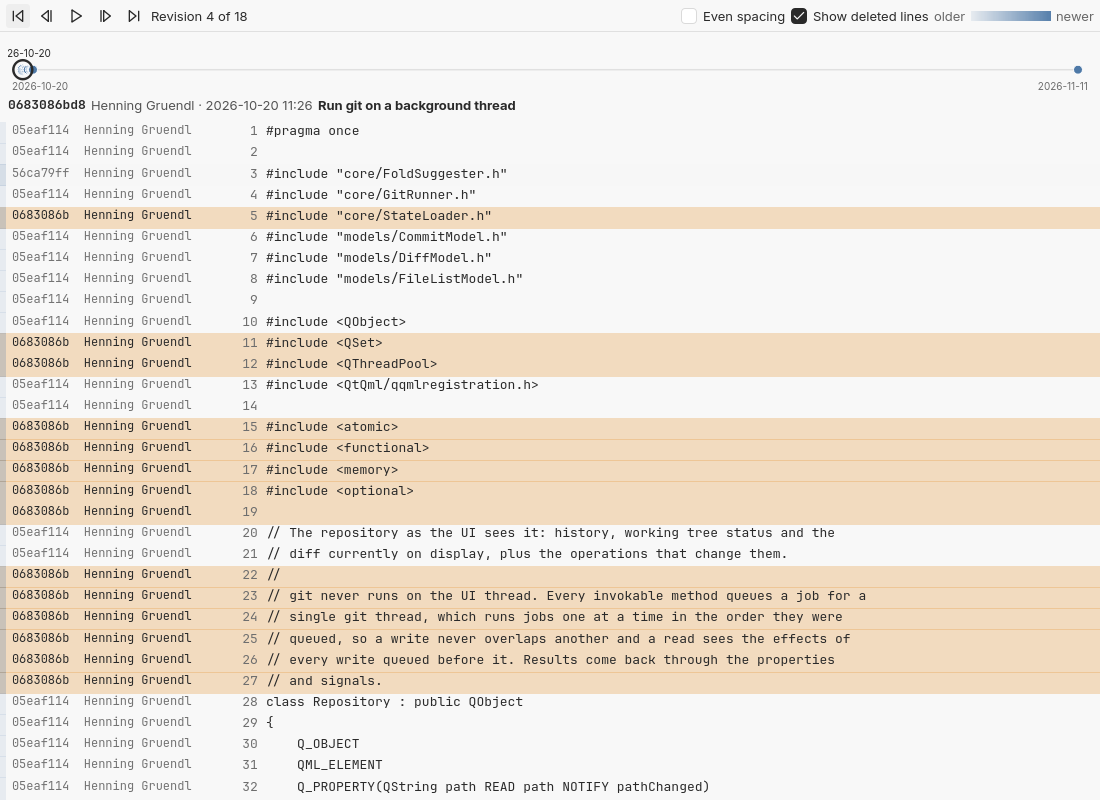
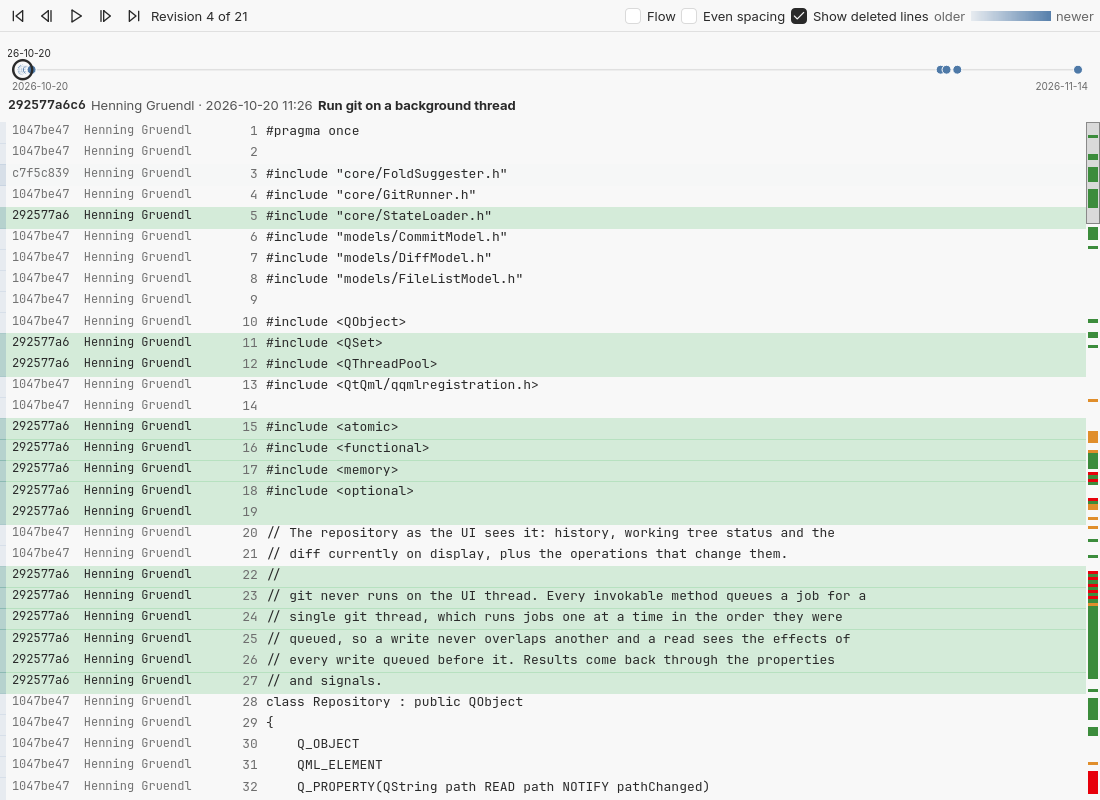
Show the flow as History shows it now
The flow screenshot still had bands colored by the revision on their
left and bare node bars, and the time-lapse one predated the flow. Take
both again: a file's history below the graph, with the flow's bars and
the lines of the revision picked, and the time-lapse in a window of its
own. The flow shot is 1000 pixels high, to leave room for the lines.

diff --git a/pages/index.html b/pages/index.html
@@ -171,8 +171,8 @@
     revision underneath, with what it added, edited and removed in the same colors;
     the wheel scrolls through the history and Ctrl+wheel zooms.
     <a href="https://github.com/iam-peter/igitt#time-lapse-view">More in the README</a>.</p>
-  <img class="shot" src="flow.png" width="1400" height="900" loading="lazy"
-       alt="The flow of TimelapseWindow.qml through eight commits, above the newest one's lines: added in green, edited in orange, deleted in red">
+  <img class="shot" src="flow.png" width="1400" height="1000" loading="lazy"
+       alt="The History mode with the history of TimelapseWindow.qml below the graph: its flow through eight commits, the third one picked, above that revision's lines, added in green and deleted in red">
 
   <div class="detail">
     <p>Beside the scroll bar, a strip shows the whole file at once with the changes of

diff --git a/README.md b/README.md
@@ -147,9 +147,9 @@ to show that revision; on the current one, a marker shows the lines in
 sight in the code, and clicking or dragging along it scrolls there. The
 wheel scrolls through the revisions, Ctrl+wheel zooms.
 
-![The flow of TimelapseWindow.qml through eight commits, above the newest one's lines: added in green, edited in orange, deleted in red](docs/screenshots/flow.png)
+![The History mode with the history of TimelapseWindow.qml below the graph: its flow through eight commits, the third one picked, above that revision's lines, added in green and deleted in red](docs/screenshots/flow.png)
 
-![The time-lapse of Repository.h at the revision that moved git onto a background thread](docs/screenshots/timelapse.png)
+![The time-lapse of Repository.h in a window of its own, at the revision that moved git onto a background thread](docs/screenshots/timelapse.png)
 
 ## Fetch, pull and push
 
